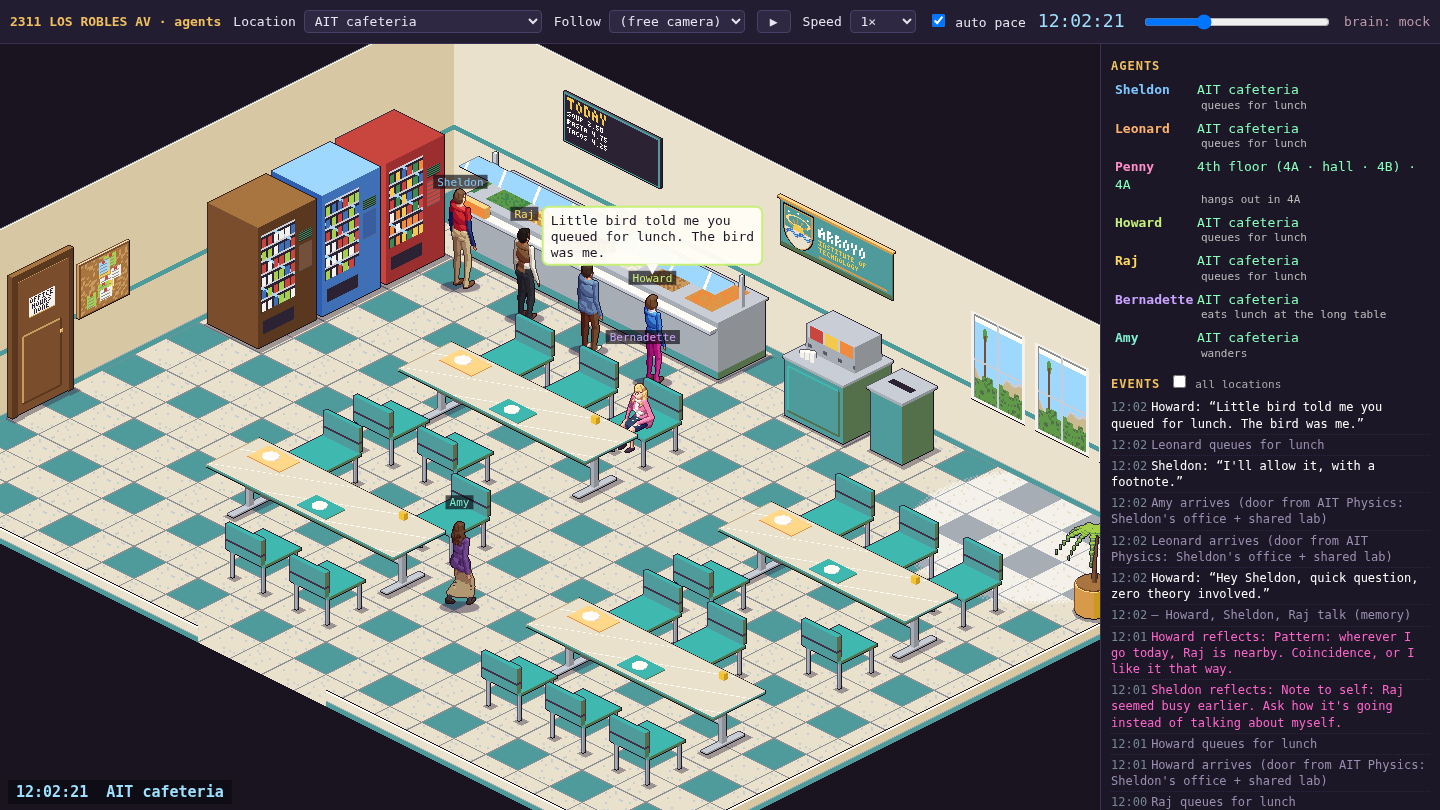
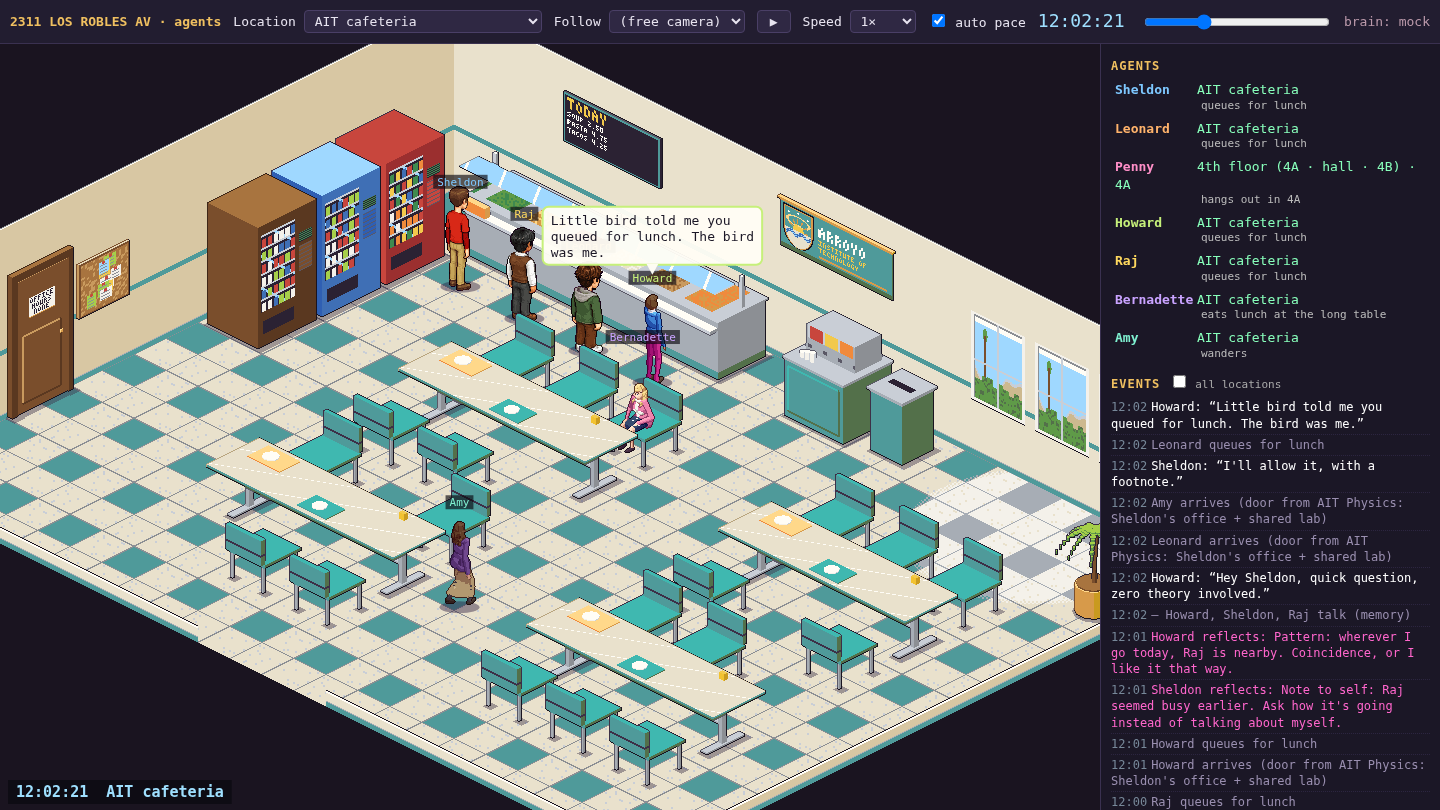
viewer: use AI-import idle loops while standing (rig walk/work/sit/emotes kept); ?art=rig opts out
Loads characters/<cid>/ai/chr_<cid>.json/.png when present. Re-recorded shots/clips.
walk_warp_rejected.png: shear-warp walk test on the AI stills (scissor legs in S, torn legs in W);
worse than the still, so not shipped.

Changed region(s): [[0.3125, 0.216, 0.4375, 0.4321]]

diff --git a/harness/viewer/viewer.js b/harness/viewer/viewer.js
@@ -2,7 +2,8 @@
 /* BBT-pixel agent harness viewer: renders the exported iso scenes + v2 character atlases and replays (or streams)
    the simulation log written by `python3 -m harness run`.
    URL params: loc, view (floor4: 4A|hall|4B|all), t (HH:MM[:SS] or seconds), speed, follow, play=0, auto=0, bare=1,
-               zoom, log (path of the sim JSON), live=1 (poll the log while the simulation is running) */
+               zoom, log (path of the sim JSON), live=1 (poll the log while the simulation is running),
+               art=rig (ignore the AI-import idle frames in characters/<cid>/ai/ and show the rig idle) */
 const Q = new URLSearchParams(location.search);
 const ROOT = '../';                    // harness/
 const CHARS = '../../characters/';
@@ -35,7 +36,14 @@ async function loadChars(cid) {
     json(`${CHARS}${cid}/chr_${cid}_sit.json`).catch(() => null), img(`${CHARS}${cid}/chr_${cid}_sit.png`).catch(() => null)]);
   const tags = {}; for (const tg of atlas.meta.frameTags) tags[tg.name] = [tg.from, tg.to];
   const sitf = {}; if (sitj) for (const f of sitj.frames) sitf[f.dir] = f;
-  V.chars[cid] = {frames: atlas.frames, tags, sheet, sit, sitf};
+  // optional AI-import sheet (tools/ai_import): its idle_<dir> loops replace the rig idle while standing;
+  // walk / work / emotes / sit stay on the rig sheet until AI sheets for those exist
+  let ai = null;
+  if (Q.get('art') !== 'rig') {
+    const [aj, ais] = await Promise.all([json(`${CHARS}${cid}/ai/chr_${cid}.json`).catch(() => null), img(`${CHARS}${cid}/ai/chr_${cid}.png`).catch(() => null)]);
+    if (aj && ais) { const at = {}; for (const tg of aj.meta.frameTags) at[tg.name] = [tg.from, tg.to]; ai = {frames: aj.frames, tags: at, sheet: ais}; }
+  }
+  V.chars[cid] = {frames: atlas.frames, tags, sheet, sit, sitf, ai};
 }
 async function loadScene(id) {
   const [sc, bg, spr] = await Promise.all([json(`${ROOT}world/${id}/scene.json`), img(`${ROOT}world/${id}/bg.png`), img(`${ROOT}world/${id}/sprites.png`)]);
@@ -102,6 +110,10 @@ function emoteTag(ch, anim, dir) {
 function frameOf(st, wall) {
   const ch = V.chars[st.cid];
   if (st.anim === 'sit' && ch.sit && ch.sitf[st.dir]) { const f = ch.sitf[st.dir]; return {img: ch.sit, fr: f.frame, pv: f.seat || f.pivot}; }   // seat anchor (butt) -> seat point at seat_z
+  if (st.anim === 'idle' && ch.ai && ch.ai.tags[`idle_${st.dir}`]) {
+    const tg = ch.ai.tags[`idle_${st.dir}`], n = tg[1] - tg[0] + 1, fd = (ch.ai.frames[tg[0]].duration || 250) / 1000;
+    return {img: ch.ai.sheet, fr: ch.ai.frames[tg[0] + Math.floor(wall / fd + st.cid.length) % n].frame, pv: [64, 116]};
+  }
   let idx;
   if (st.anim === 'emote') idx = st.frame;
   else {
